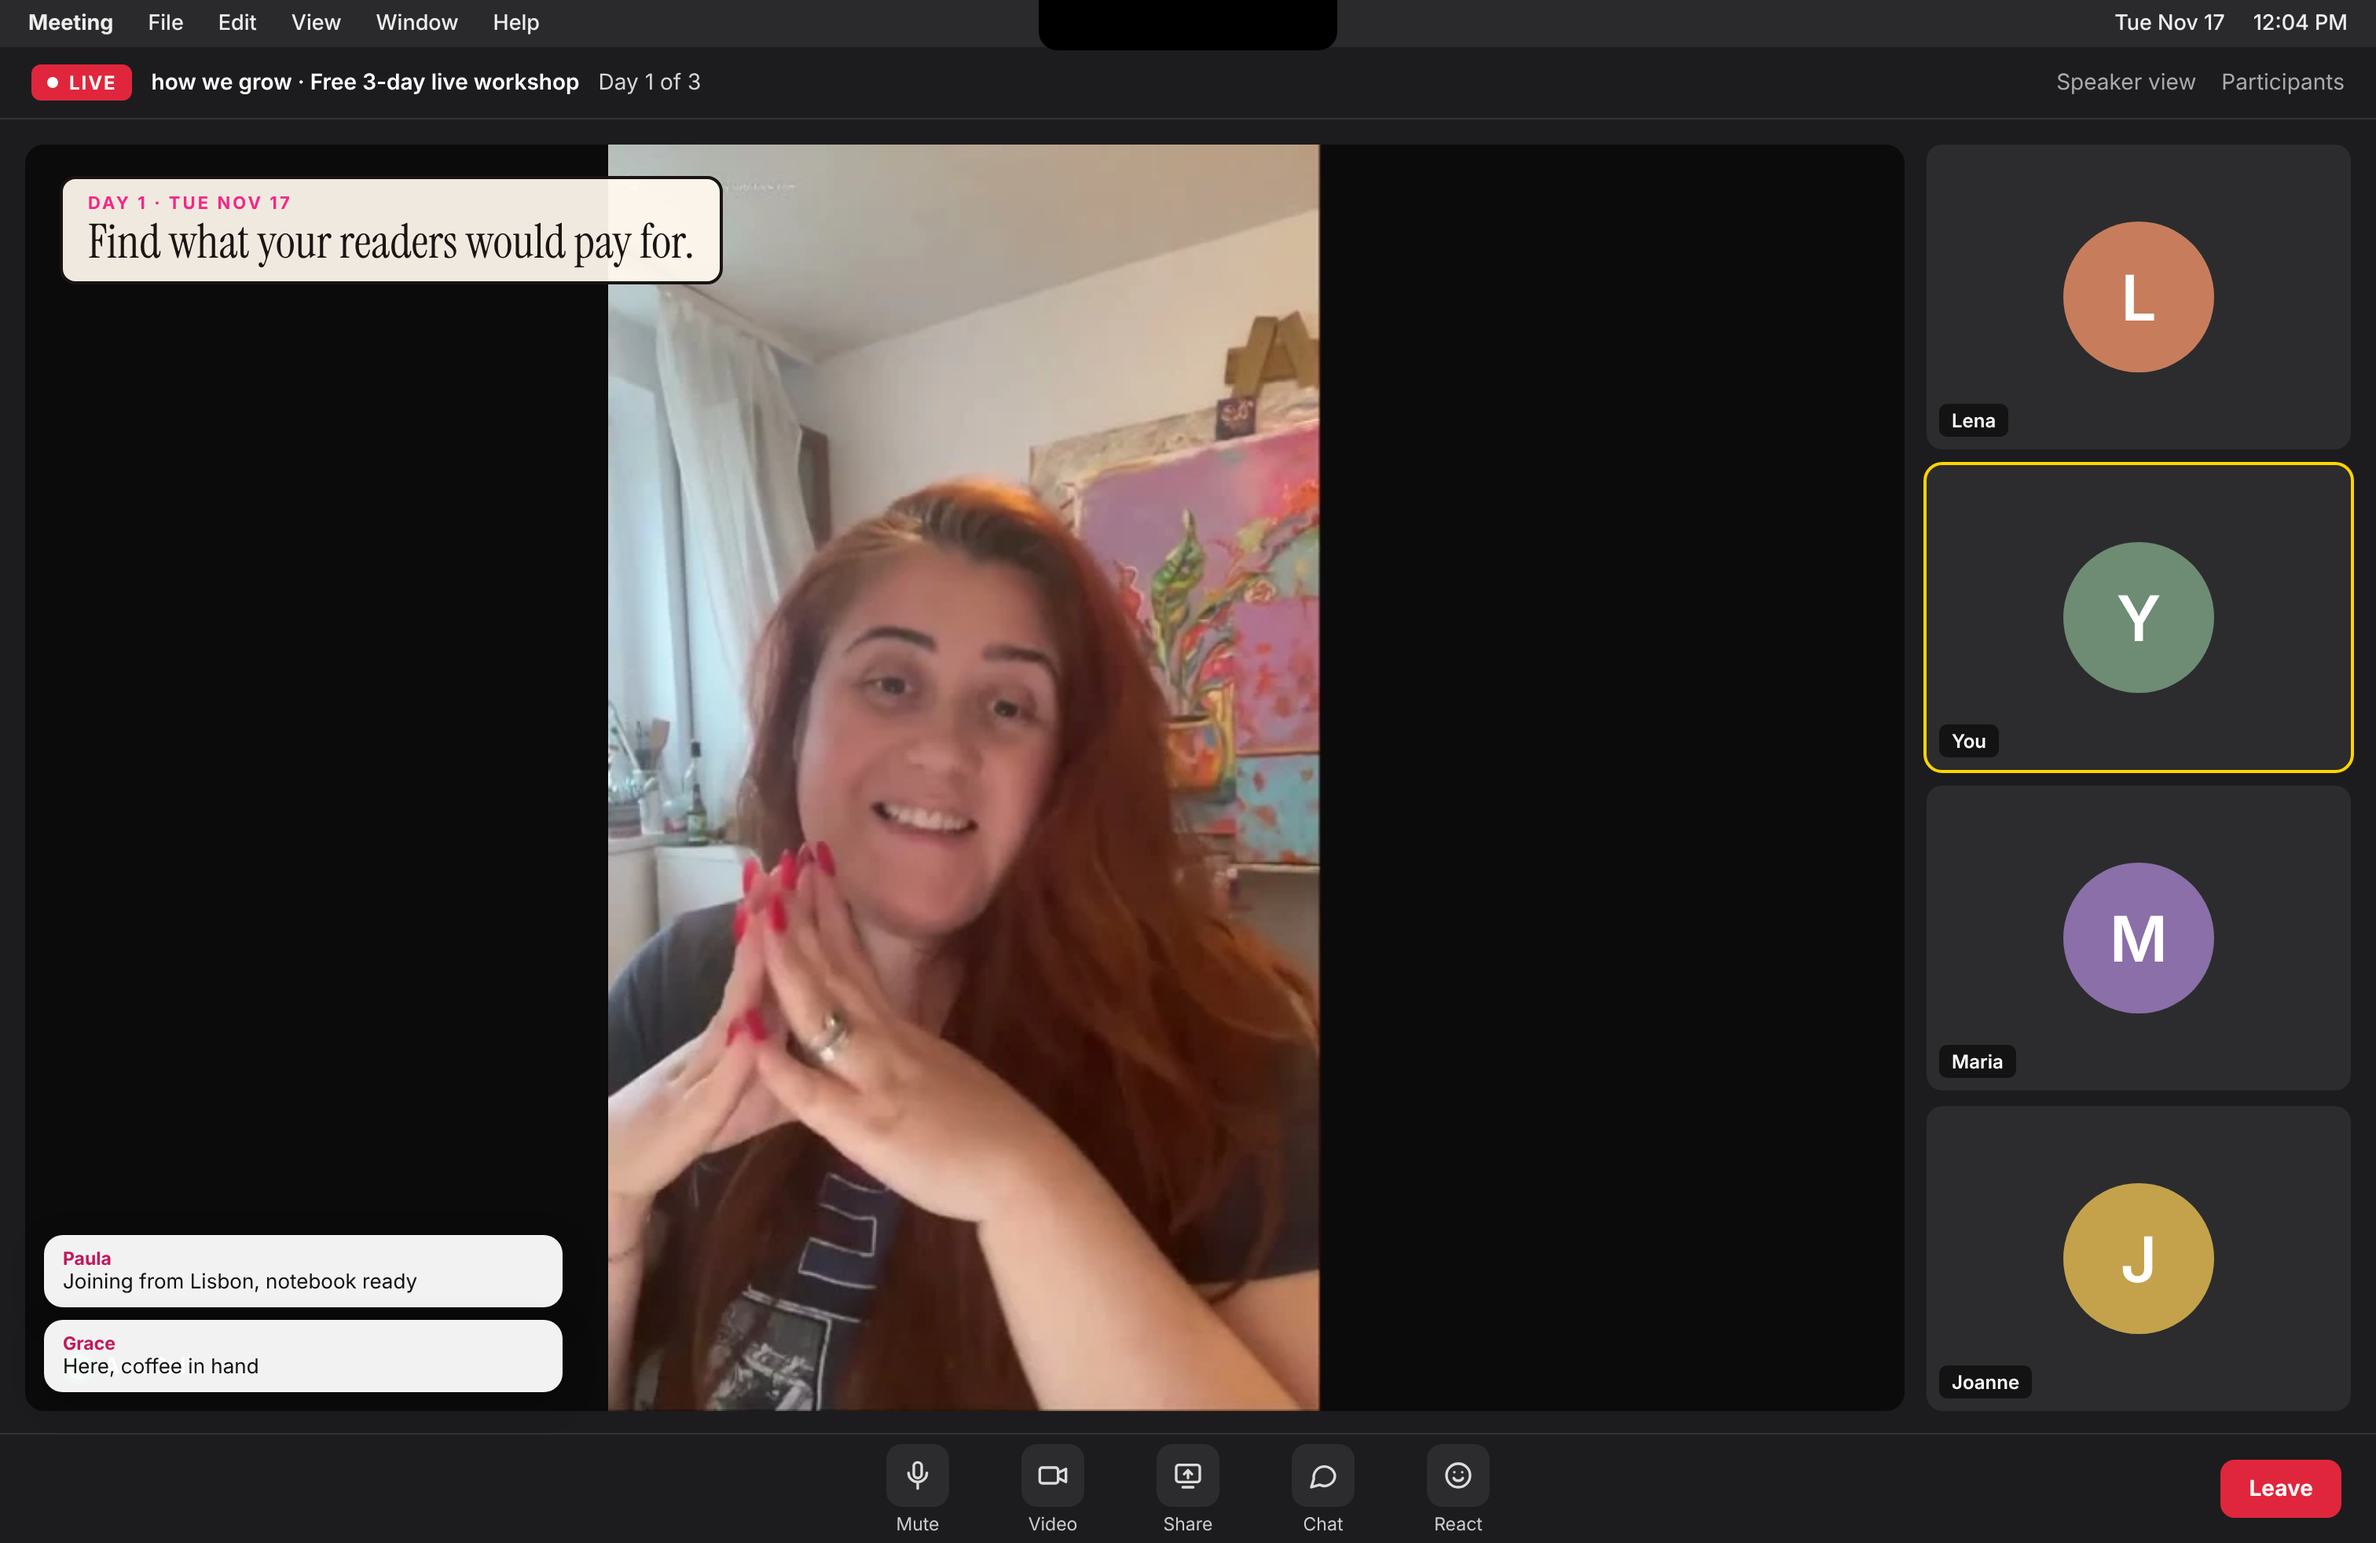
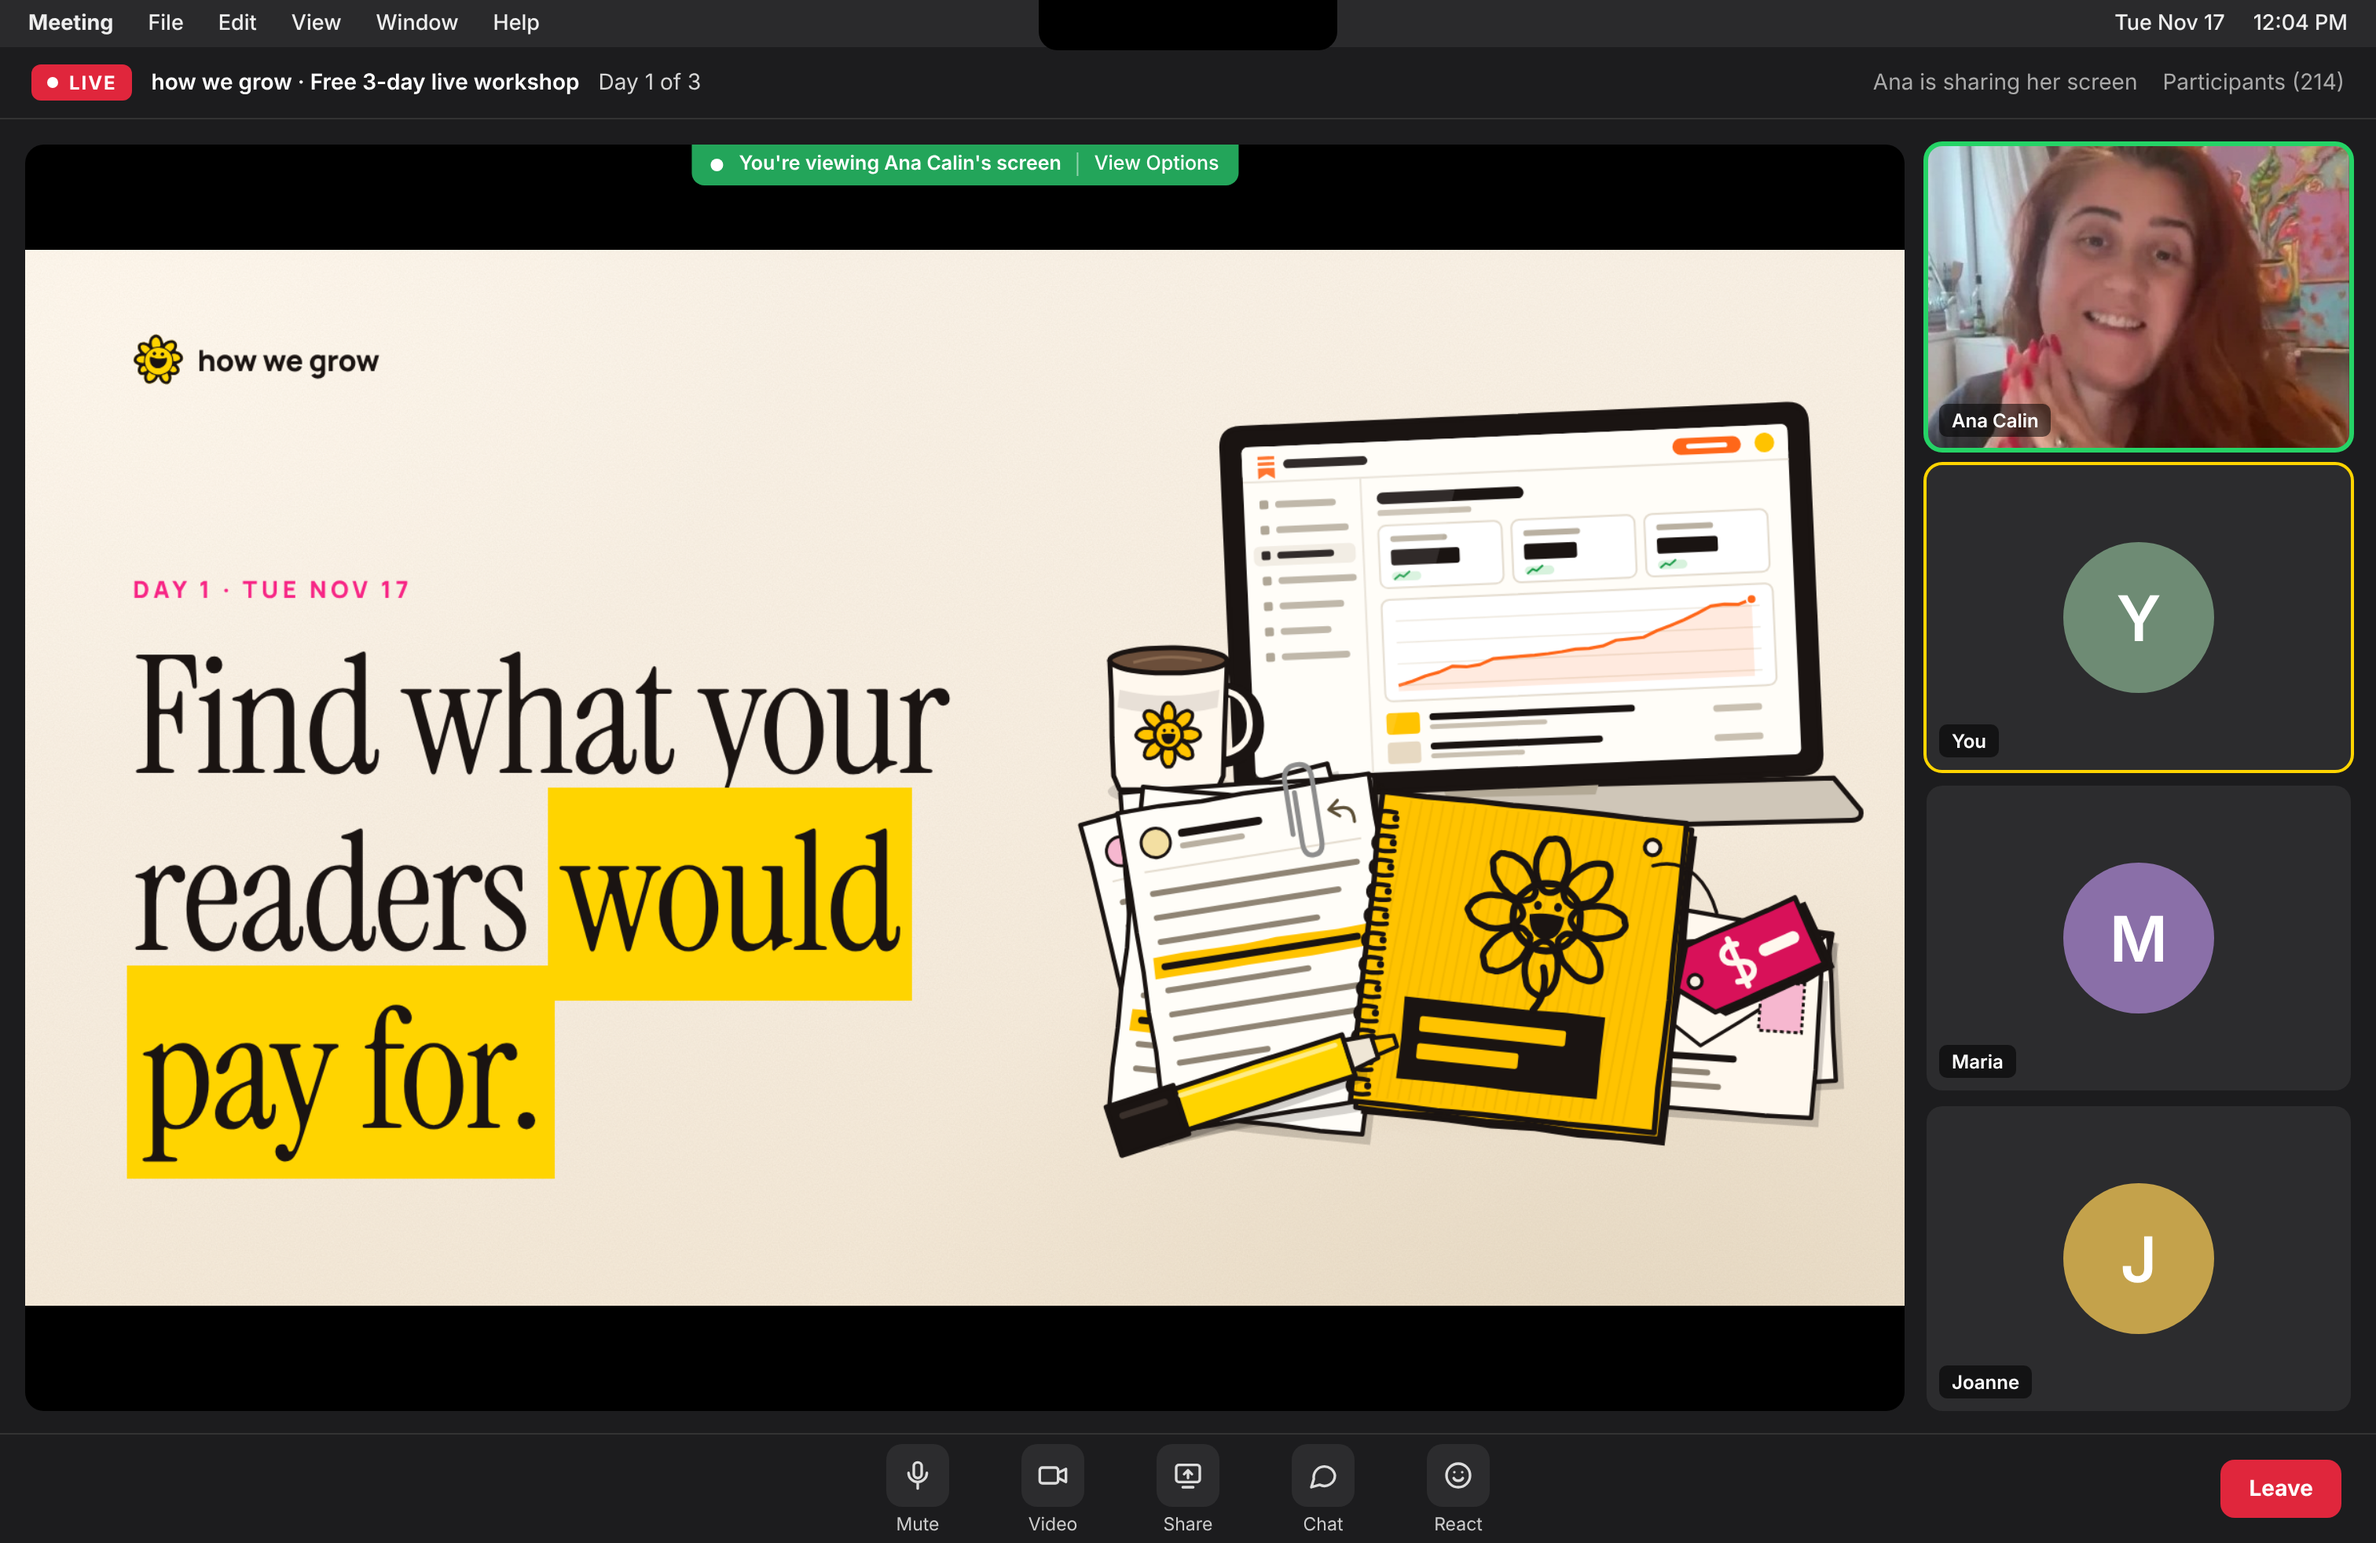
Ana Calin: Day 1 screen shares her Day 1 slide; final Gemini prompts
- the Day 1 call shows her Day 1 slide as Ana's shared screen (rebuilt at
  1920x1080 from the slide's source), with her real video in the speaker tile
- GEMINI-PROMPTS.md: the four final prompts, each with the screen that goes in

Claude-Session: https://claude.ai/code/session_01MxqKXt8jC4twN2icxWpMeU

diff --git a/ana-calin/workshop/assets/screens/GEMINI-PROMPTS.md b/ana-calin/workshop/assets/screens/GEMINI-PROMPTS.md
@@ -1,71 +1,74 @@
-# Ana: Gemini prompts for the timeline photos
+# Ana: Gemini prompts for the timeline photos (final)
 
-Four photos. Each one shows a device with a **solid green screen**. I put the real screen in afterwards, matched to
-its angle, so the text is sharp and correct (Gemini garbles screen text). The Day 2 sheet photo waits until the VIP
-deliverables are final.
+Four photos, one per timeline card. In each, the device screen is **solid green**. I put the real screen in
+afterwards, matched to the screen's angle, so the text is sharp and right (Gemini garbles screen text). The Day 2
+sheet photo waits until the VIP deliverables are final.
 
-**How to run them**
-1. Make photo 1 first. Then, for photos 2, 3 and 4, attach photo 1 and start with: *"Same woman as in the attached
-   photo, same look and styling."*
-2. Ask for the largest size Gemini offers, landscape 4:3.
-3. If the green screen has a glare or a reflection, say *"make the screen a flat, even #00FF00 with no reflections"*
-   and regenerate.
-4. Send me the photos. I place the screens and put them in the timeline cards on both confirmation pages.
+## How to run them
+
+1. Make **photo 1** first.
+2. For photos 2, 3 and 4, attach photo 1 and start the prompt with:
+   *"Same woman as in the attached photo, same face, hair and styling."*
+3. Pick landscape, 4:3, the largest size Gemini offers.
+4. If a screen has glare, a reflection or anything on it, reply: *"Make the screen a flat, even #00FF00 green with no
+   reflections and nothing on it"* and regenerate.
+5. Send me the four photos. I put the screens in and add them to the timeline cards on both confirmation pages.
+
+## Add this to the end of every prompt
+
+> Photorealistic lifestyle photograph, 4:3 landscape, full-frame camera, 35mm lens, natural window light, soft warm
+> tones, shallow depth of field, editorial magazine feel, a real lived-in but tidy home. Colour touches: cream, warm
+> wood, a little soft pink, and sunflower yellow (a yellow mug, or a few sunflowers in a small vase). The woman is in
+> her mid-40s, warm and natural, light everyday makeup, relaxed clothes (a soft knit or a linen shirt), not a model
+> pose. **The device screen is filled edge to edge with flat, solid, bright green (#00FF00), evenly lit, with no
+> reflections, no glare, no interface and no text. The whole screen is visible: not cropped by the frame and not
+> covered by a hand or an object.** No logos anywhere (no Apple logo), no text, no watermarks.
 
 ---
 
-## The look, for every photo (paste this at the end of each prompt)
+## Photo 1 · Today · joining on WhatsApp (iPhone)
 
-> Photorealistic lifestyle photograph, 4:3 landscape, shot on a full-frame camera with a 35mm lens, natural window
-> light, soft warm tones, shallow depth of field, editorial magazine feel, real home, lived-in but tidy. Colour
-> touches: cream, warm wood, a little soft pink, and sunflower yellow (a yellow mug, or a few sunflowers in a small
-> vase). The woman is in her mid-40s, natural and warm, light everyday makeup, relaxed clothes (a soft knit or a
-> linen shirt), not a model pose. **The device screen is filled edge to edge with flat, solid, bright green
-> (#00FF00), evenly lit, with no reflections, no glare, no interface and no text. The whole screen is visible: not
-> cropped by the frame and not covered by a hand or an object.** No logos anywhere (no Apple logo), no text, no
-> watermarks.
-
----
-
-## 1. Today: joining on WhatsApp (iPhone)
-*Used for the "Today" card on both pages: the free page gets the workshop channel screen, VIP gets the VIP group.*
-
+**Prompt:**
 > A woman sits curled up on a cosy sofa in the morning, holding an iPhone upright in portrait with one hand at chest
-> height, turning it toward the camera as if showing a friend what's on it. The phone screen faces the camera almost
-> straight on (tilted no more than 15 degrees). She is smiling, slightly out of focus behind the phone; the phone is
-> the sharpest thing in the photo. A cream knit blanket over her knees, a yellow mug of coffee on the side table, soft
-> morning light from a window on the left. *(add the look)*
+> height, turning it toward the camera as if showing a friend. The phone screen faces the camera almost straight on
+> (tilted no more than 15 degrees). She is smiling, slightly out of focus behind the phone; the phone is the
+> sharpest thing in the photo. A cream knit blanket over her knees, a yellow mug of coffee on the side table, soft
+> morning light from a window on the left.
 
-## 2. Tue Nov 17, Day 1: live on the call (MacBook)
+**Screen that goes in:** `channel.png` on the free page (the workshop channel), `vipgroup.png` on the VIP page.
 
-> Over-the-shoulder view from behind and slightly to the right of a woman sitting at a wooden kitchen table, watching
-> a live video call on an open MacBook. The laptop screen faces the camera at a gentle angle (about 20 degrees) and
-> is fully visible, filling about half of the photo's width. She leans in a little, pen in hand, a printed worksheet
+## Photo 2 · Tue Nov 17, Day 1 · live on the call (MacBook)
+
+**Prompt:**
+> Over-the-shoulder view from behind and slightly to the right of a woman at a wooden kitchen table, watching a live
+> video call on an open MacBook. The laptop screen faces the camera at a gentle angle (about 20 degrees) and is fully
+> visible, filling about half of the photo's width. She leans in a little with a pen in hand, a printed worksheet
 > and an open notebook beside the laptop, a glass of water, a small vase with three sunflowers. Bright midday light
-> from a window behind the laptop, but the screen is not washed out. *(add the look)*
+> from a window behind the laptop, but the screen is not washed out.
 
-## 3. Thu Nov 19, Day 3: about to send the ask (laptop)
+**Screen that goes in:** `call.png` (Ana sharing her Day 1 slide, Ana live in the corner).
 
+## Photo 3 · Thu Nov 19, Day 3 · about to send the ask (laptop)
+
+**Prompt:**
 > Close view of a woman's hands at an open laptop on a home desk, her right hand on the trackpad as if about to
 > click, her left hand resting by a notebook full of handwritten notes with one line highlighted in yellow. The
 > laptop screen faces the camera at a slight angle (about 15 to 20 degrees) and is fully visible. A soft pink
 > cardigan sleeve, a cup of tea, afternoon light. Her face is out of frame or softly blurred at the top edge.
-> *(add the look)*
 
-## 4. Fri Nov 20, VIP: Ana reviews her offer live (MacBook)
+**Screen that goes in:** `compose.png` (her ask as a Substack post, pointer on Continue).
 
-> A woman in her mid-40s at a home desk, seen from the side and slightly behind (three-quarter view), smiling and
-> writing in a notebook while she watches a video call on an open MacBook. The laptop screen faces the camera at a
-> gentle angle (about 25 degrees) and is fully visible. Warm late-morning light, a yellow mug, a few sticky notes on
-> the desk, a soft pink cushion on the chair. The mood: someone getting personal help, relieved and focused.
-> *(add the look)*
+## Photo 4 · Fri Nov 20, VIP · Ana reviews her offer live (MacBook)
+
+**Prompt:**
+> A woman at a home desk, seen from the side and slightly behind (three-quarter view), smiling and writing in a
+> notebook while she watches a video call on an open MacBook. The laptop screen faces the camera at a gentle angle
+> (about 25 degrees) and is fully visible. Warm late-morning light, a yellow mug, a few sticky notes on the desk, a
+> soft pink cushion on the chair. The mood: someone getting personal help, relieved and focused.
+
+**Screen that goes in:** `review.png` (Ana screen-sharing the Google Doc with her suggestions).
 
 ---
 
-### The screens that go in (already made)
-- `assets/screens/channel.png`: the free WhatsApp channel (photo 1, free page)
-- `assets/screens/vipgroup.png`: the VIP group, with the new group picture (photo 1, VIP page)
-- `assets/screens/call.png`: Day 1 live, real Ana (photo 2)
-- `assets/screens/compose.png`: the Day 3 ask as a Substack post, cursor on Continue (photo 3)
-- `assets/screens/review.png`: Ana reviewing an offer live on Fri Nov 20 (photo 4)
-- `assets/vip-group-photo.png`: the VIP group's picture, for Theia to upload to the real WhatsApp group
+Also here: `day1-slide.png` (her Day 1 slide at 1920x1080), and `../vip-group-photo.png`, the VIP group's
+picture for Theia to upload to the real WhatsApp group.
